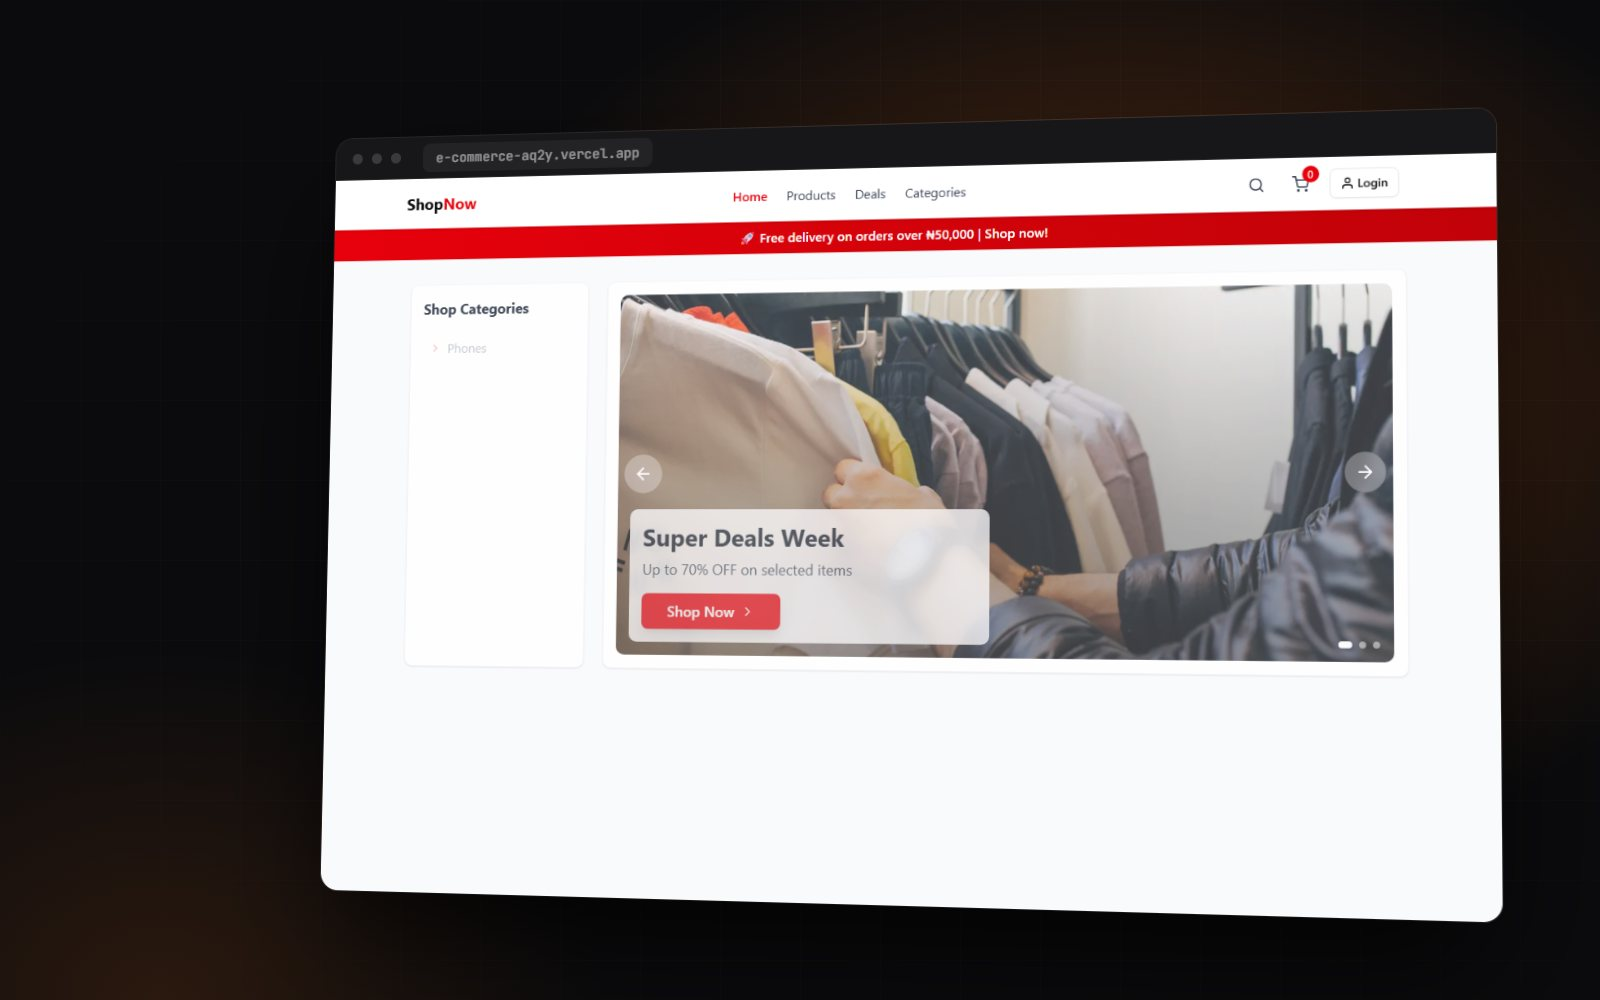
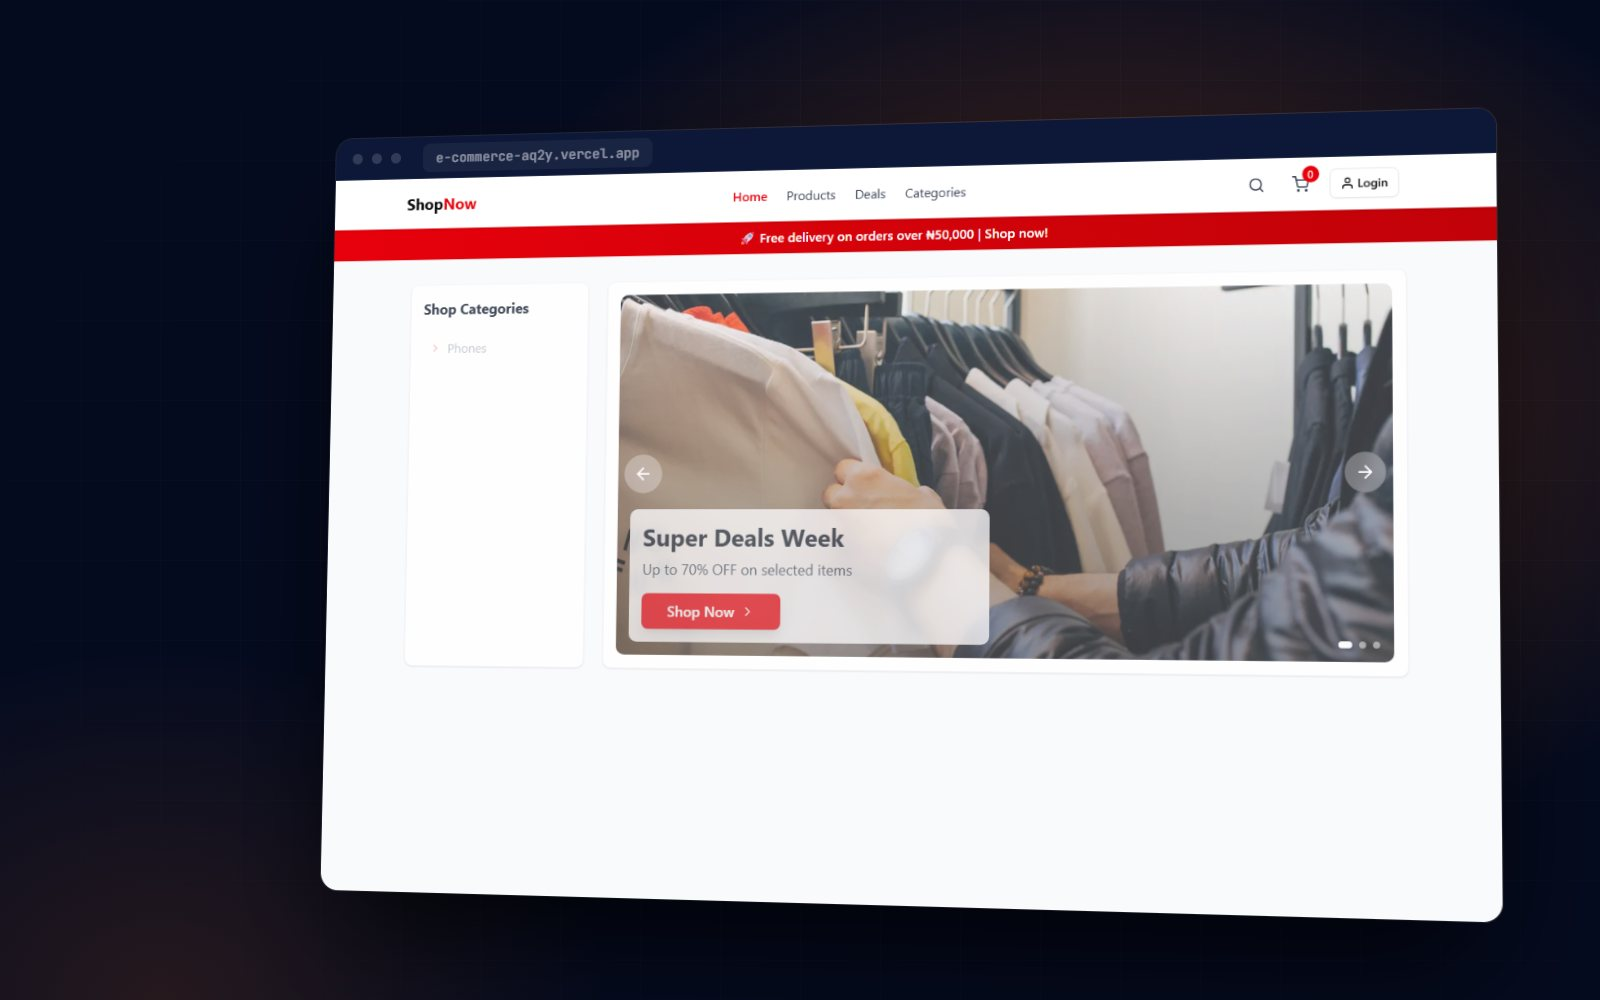
Update design tokens and enhance scene transitions for improved visual experience

Changed region(s): [[0.1875, 0.093, 0.9375, 0.186]]

diff --git a/src/components/shell/Workspace.tsx b/src/components/shell/Workspace.tsx
@@ -27,8 +27,9 @@ const SCENE_COMPONENTS = {
 } as const;
 
 const EASE = [0.76, 0, 0.24, 1] as const;
-const TRANSITION_LOCK_MS = 1000;
-const WHEEL_THRESHOLD = 120;
+const TRANSITION_LOCK_MS = 950;
+const EDGE_SETTLE_MS = 280;
+const WHEEL_THRESHOLD = 50;
 
 function parseHash(hash: string): { scene: SceneId; project: string | null } {
   const [scene, project] = hash.replace(/^#\/?/, "").split("/");
@@ -56,7 +57,8 @@ export default function Workspace() {
   const scrollRef = useRef<HTMLDivElement>(null);
   const lockUntil = useRef(0);
   const wheelAccum = useRef(0);
-  const touchStart = useRef<{ x: number; y: number; t: number; atTop: boolean; atBottom: boolean } | null>(null);
+  const lastScroll = useRef(0);
+  const touchStart = useRef<{ x: number; y: number; t: number } | null>(null);
   const overlayOpen = paletteOpen || project !== null;
 
   const scene = SCENES[index];
@@ -111,6 +113,7 @@ export default function Workspace() {
   // Reset inner scroll when entering a scene
   useEffect(() => {
     scrollRef.current?.scrollTo({ top: 0 });
+    lastScroll.current = performance.now();
   }, [index]);
 
   // Keyboard
@@ -139,48 +142,40 @@ export default function Workspace() {
     return () => window.removeEventListener("keydown", onKey);
   }, [goTo, index, overlayOpen]);
 
-  const edges = () => {
-    const el = scrollRef.current;
-    if (!el) return { atTop: true, atBottom: true };
-    return { atTop: el.scrollTop <= 1, atBottom: el.scrollTop + el.clientHeight >= el.scrollHeight - 2 };
-  };
-
-  // Wheel: scroll the scene normally; keep scrolling past its end and you move on to the next scene.
+  // Wheel: move scenes only once the inner scroll has settled at an edge
   const onWheel = (e: React.WheelEvent) => {
     if (overlayOpen || Math.abs(e.deltaY) < Math.abs(e.deltaX)) return;
-    if (performance.now() < lockUntil.current) return;
-    const { atTop, atBottom } = edges();
-    const pushingPastEdge = (e.deltaY > 0 && atBottom) || (e.deltaY < 0 && atTop);
-    if (!pushingPastEdge || Math.sign(e.deltaY) !== Math.sign(wheelAccum.current || e.deltaY)) {
+    const now = performance.now();
+    if (now < lockUntil.current) return;
+    const el = scrollRef.current;
+    if (!el) return;
+    const atTop = el.scrollTop <= 1;
+    const atBottom = el.scrollTop + el.clientHeight >= el.scrollHeight - 2;
+    const settled = now - lastScroll.current > EDGE_SETTLE_MS;
+    if ((e.deltaY > 0 && atBottom && settled) || (e.deltaY < 0 && atTop && settled)) {
+      wheelAccum.current += e.deltaY;
+      if (Math.abs(wheelAccum.current) > WHEEL_THRESHOLD) goTo(index + Math.sign(wheelAccum.current));
+    } else {
       wheelAccum.current = 0;
-      if (!pushingPastEdge) return;
     }
-    wheelAccum.current += e.deltaY;
-    if (Math.abs(wheelAccum.current) > WHEEL_THRESHOLD) goTo(index + Math.sign(wheelAccum.current));
   };
 
-  // Touch: horizontal swipe changes scene; a vertical swipe that starts at a scene's edge and
-  // keeps going past it moves to the next/previous scene, otherwise it's native scrolling.
+  // Touch: horizontal swipe changes scene; vertical stays native scroll
   const onTouchStart = (e: React.TouchEvent) => {
     const t = e.touches[0];
-    const { atTop, atBottom } = edges();
-    touchStart.current = { x: t.clientX, y: t.clientY, t: performance.now(), atTop, atBottom };
+    touchStart.current = { x: t.clientX, y: t.clientY, t: performance.now() };
   };
   const onTouchEnd = (e: React.TouchEvent) => {
     const start = touchStart.current;
     touchStart.current = null;
-    if (!start || overlayOpen || performance.now() < lockUntil.current) return;
-    if ((e.target as Element).closest("[data-swipe-ignore]")) return;
+    if (!start || overlayOpen) return;
     const t = e.changedTouches[0];
     const dx = t.clientX - start.x;
     const dy = t.clientY - start.y;
-    const fast = performance.now() - start.t < 700;
+    const fast = performance.now() - start.t < 600;
     if (fast && Math.abs(dx) > 70 && Math.abs(dx) > Math.abs(dy) * 1.6) {
+      if ((e.target as Element).closest("[data-swipe-ignore]")) return;
       goTo(index + (dx < 0 ? 1 : -1));
-    } else if (Math.abs(dy) > 90 && Math.abs(dy) > Math.abs(dx) * 1.6) {
-      const { atTop, atBottom } = edges();
-      if (dy < 0 && start.atBottom && atBottom) goTo(index + 1);
-      else if (dy > 0 && start.atTop && atTop) goTo(index - 1);
     }
   };
 
@@ -225,6 +220,7 @@ export default function Workspace() {
             >
               <div
                 ref={scrollRef}
+                onScroll={() => (lastScroll.current = performance.now())}
                 className="scene-scroll h-full overflow-y-auto overflow-x-hidden"
               >
                 {booted ? <Scene go={go} openProject={openProject} /> : null}

diff --git a/src/app/globals.css b/src/app/globals.css
@@ -3,30 +3,35 @@
 @custom-variant dark (&:where(.dark, .dark *));
 
 /* Design tokens. Dark is the default canvas; .light swaps the surfaces. */
+/* Deep-blue canvas with a warm signal accent for contrast. */
 :root {
-  --ink: #0b0b0d;
-  --surface: #131316;
-  --raised: #1a1a1f;
-  --paper: #f4f1ea;
-  --muted: #a3a09a;
-  --faint: #66645f;
-  --line: #26262b;
+  --ink: #050b1f;
+  --surface: #0a1430;
+  --raised: #101d42;
+  --paper: #eef2fb;
+  --muted: #98a4c6;
+  --faint: #56628a;
+  --line: #1a2850;
   --accent: #ff6b3d;
-  --accent-ink: #0b0b0d;
+  --accent-ink: #050b1f;
+  --blue: #1e40af;
+  --blue-glow: #2563eb;
   --ok: #4ade80;
   color-scheme: dark;
 }
 
 :root.light {
-  --ink: #f3f1ec;
-  --surface: #eae7e0;
+  --ink: #f1f4fb;
+  --surface: #e4eaf7;
   --raised: #ffffff;
-  --paper: #121214;
-  --muted: #55534e;
-  --faint: #8c8982;
-  --line: #d8d4cb;
+  --paper: #0a1a4a;
+  --muted: #3d4a75;
+  --faint: #7d88aa;
+  --line: #cfd8ee;
   --accent: #e8501f;
   --accent-ink: #ffffff;
+  --blue: #1e3a8a;
+  --blue-glow: #3b82f6;
   --ok: #15803d;
   color-scheme: light;
 }
@@ -42,6 +47,8 @@
   --color-accent: var(--accent);
   --color-accent-ink: var(--accent-ink);
   --color-ok: var(--ok);
+  --color-blue-deep: var(--blue);
+  --color-blue-glow: var(--blue-glow);
 
   /* Aliases kept for the shadcn ui primitives in components/ui */
   --color-background: var(--ink);
@@ -202,6 +209,17 @@ html.custom-cursor summary {
     scrollbar-color: var(--line) transparent;
     overscroll-behavior: contain;
   }
+}
+
+/* Deep-blue atmosphere behind every scene */
+.grain::before {
+  content: "";
+  position: fixed;
+  inset: 0;
+  pointer-events: none;
+  background:
+    radial-gradient(60% 55% at 85% 0%, color-mix(in srgb, var(--blue-glow) 22%, transparent), transparent 70%),
+    radial-gradient(50% 50% at 0% 100%, color-mix(in srgb, var(--blue) 30%, transparent), transparent 70%);
 }
 
 /* Grain overlay keeps flat dark surfaces from looking digital-flat. */

diff --git a/src/components/scenes/IndexScene.tsx b/src/components/scenes/IndexScene.tsx
@@ -27,7 +27,8 @@ export default function IndexScene({ go, openProject }: SceneProps) {
   return (
     <div className="relative flex min-h-full flex-col" onPointerMove={onMove}>
       {/* Ambient glow */}
-      <div aria-hidden className="pointer-events-none absolute -right-40 -top-40 size-[44rem] rounded-full bg-accent/15 blur-[120px]" />
+      <div aria-hidden className="pointer-events-none absolute -right-40 -top-40 size-176 rounded-full bg-blue-glow/25 blur-[120px]" />
+      <div aria-hidden className="pointer-events-none absolute right-1/4 top-1/3 size-72 rounded-full bg-accent/10 blur-[110px]" />
 
       <div className="relative mx-auto grid w-full max-w-7xl flex-1 items-center gap-10 px-5 pb-28 pt-10 sm:px-10 md:pb-32 lg:grid-cols-[1.25fr_0.75fr]">
         <div>

diff --git a/src/app/layout.tsx b/src/app/layout.tsx
@@ -28,7 +28,7 @@ export const viewport: Viewport = {
   width: "device-width",
   initialScale: 1,
   viewportFit: "cover",
-  themeColor: "#0b0b0d",
+  themeColor: "#050b1f",
 };
 
 export default function RootLayout({ children }: Readonly<{ children: React.ReactNode }>) {
